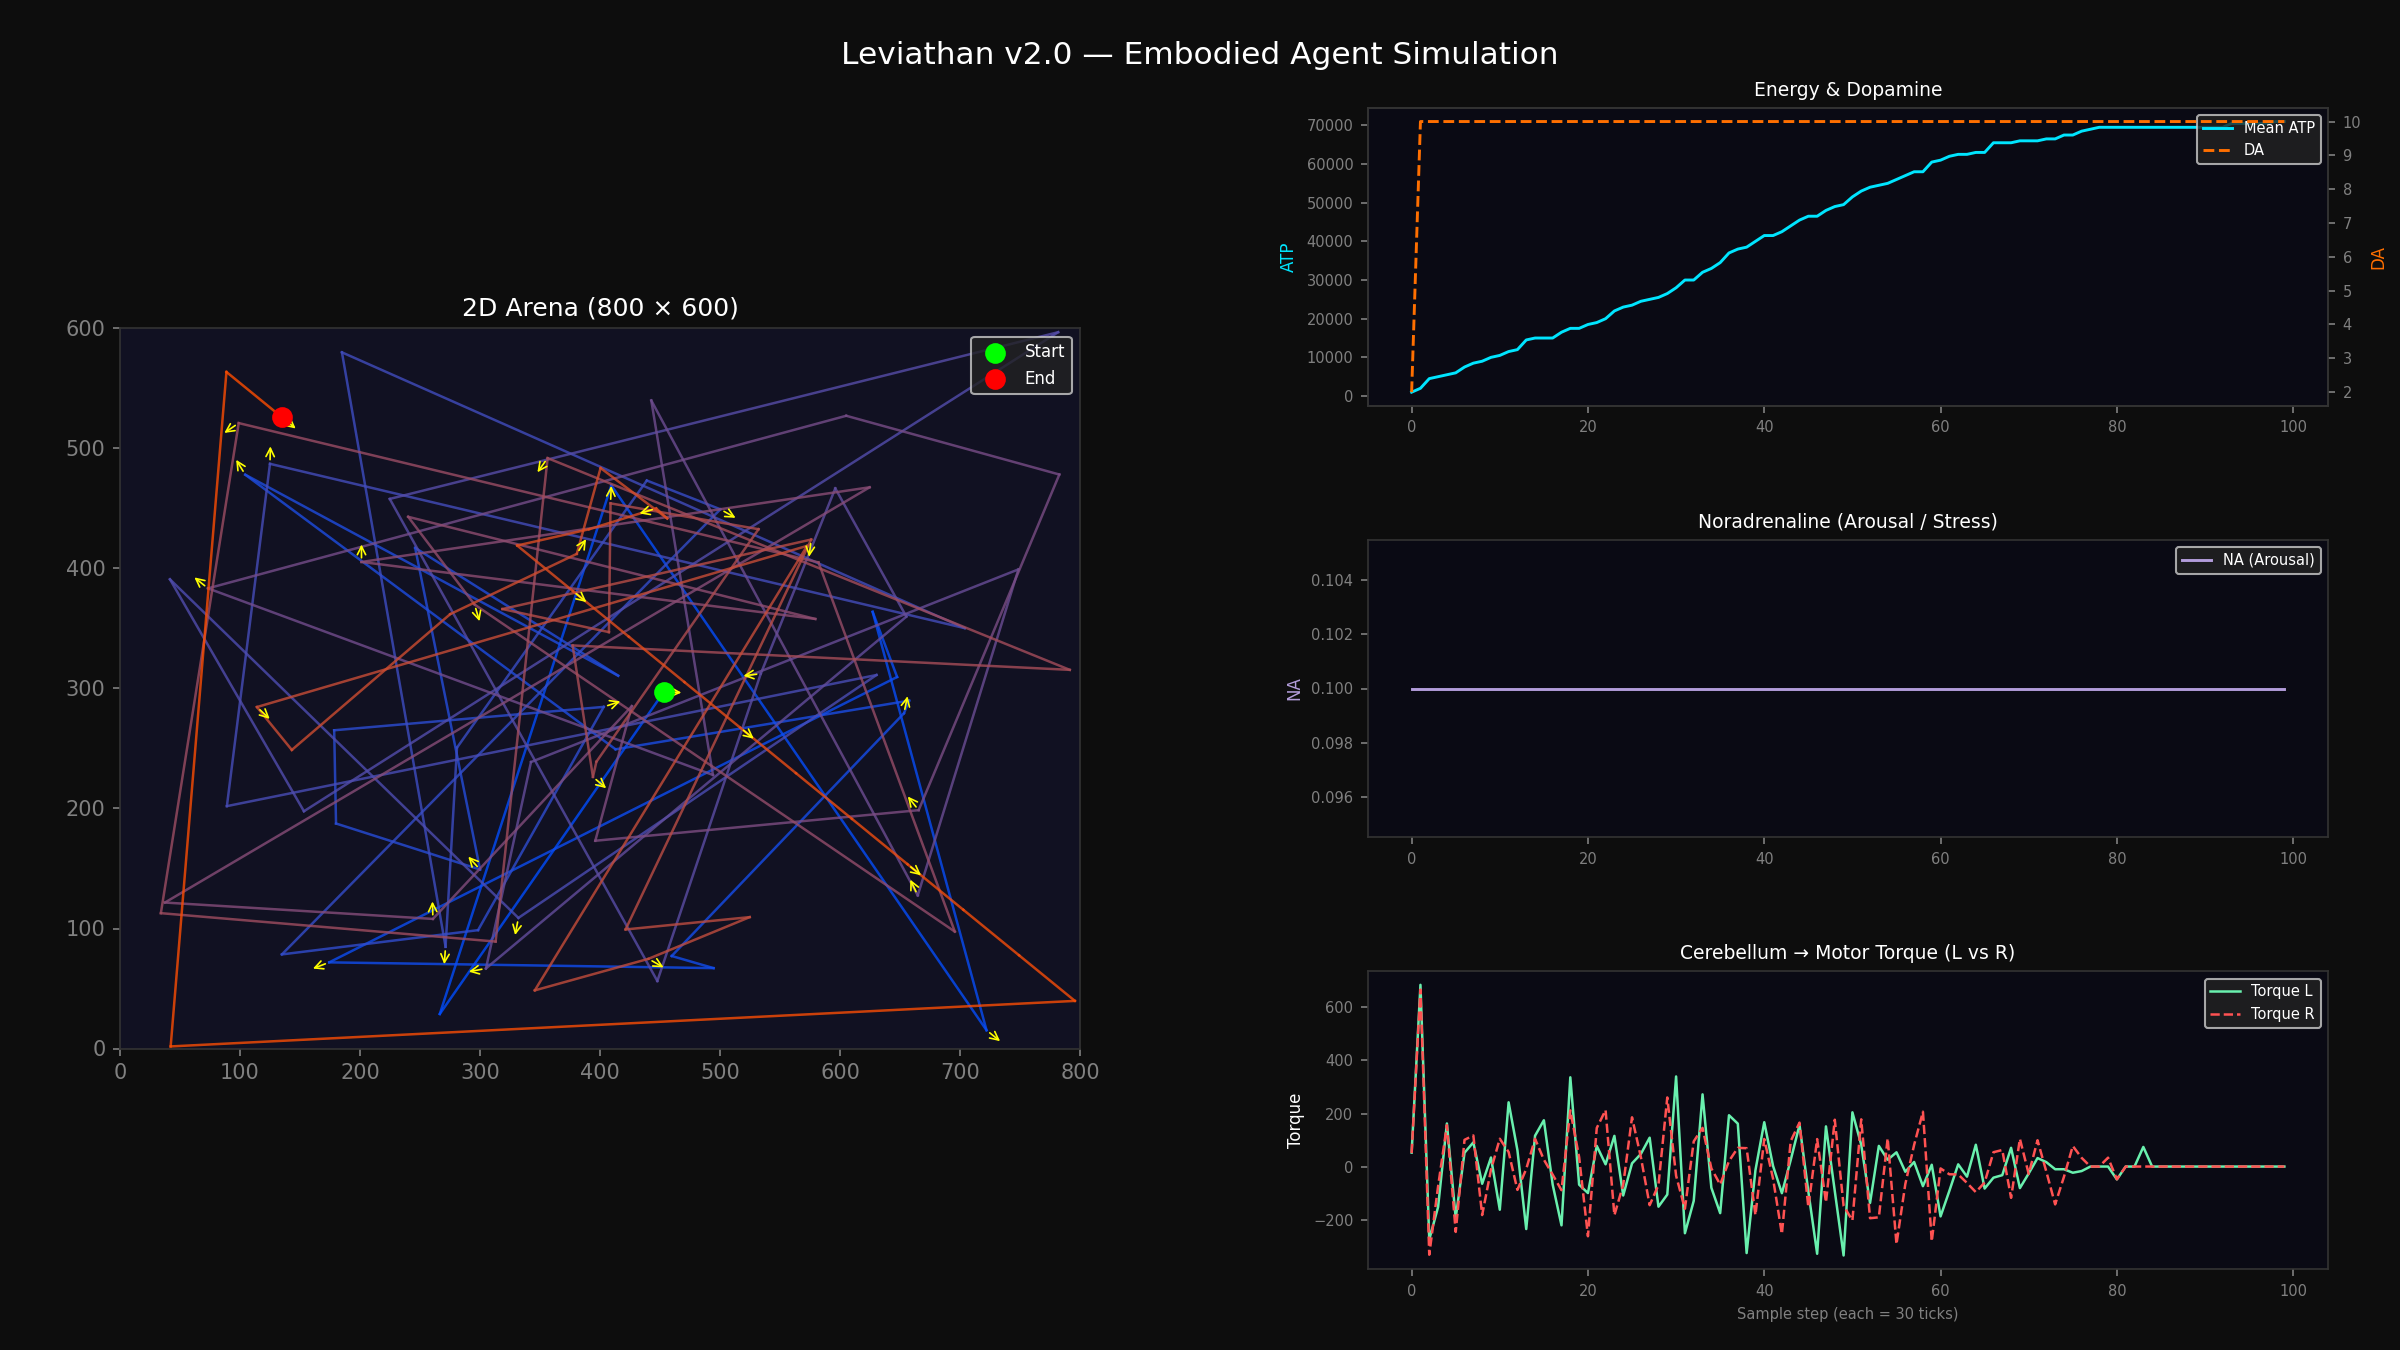
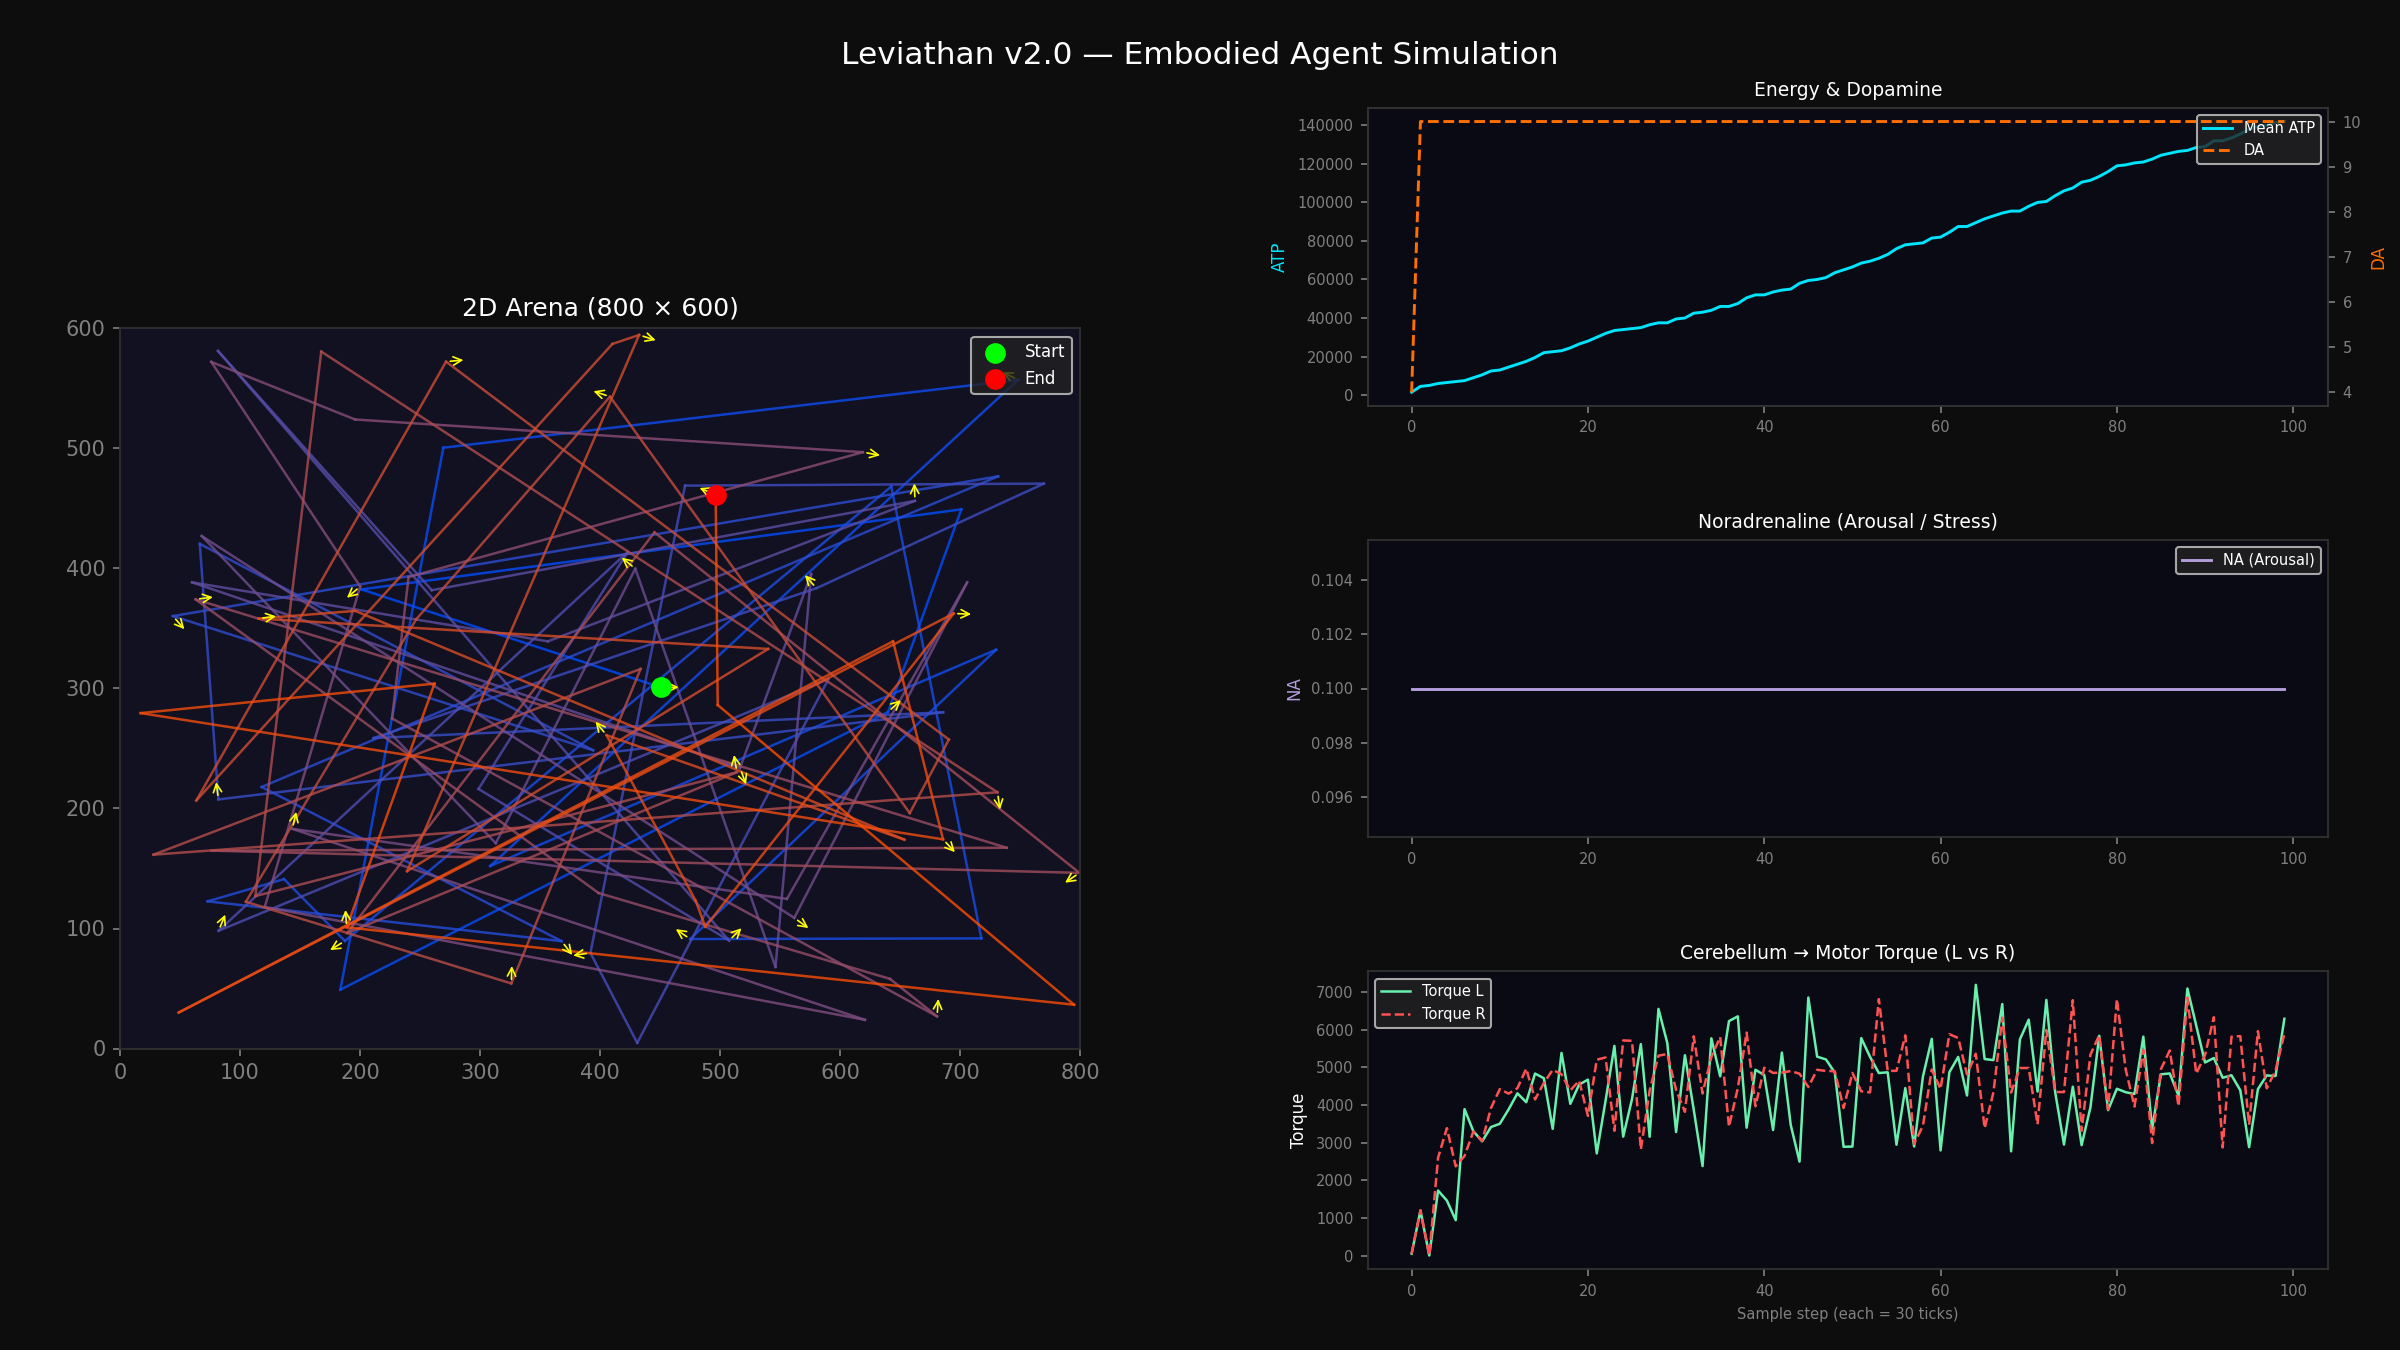
Phase 10: Debug fixes for Python 3.9 and macOS
- foraging_task.py: replaced int|None with Optional[int] (Python 3.9 compat)
- ptdp_ablation.py: fixed stale 4-arg apply_ptdp() call
- multi_gpu_orchestrator.py: robust NCCL/dist detection to avoid macOS background crashes
- verified all 9 major entry points are green

diff --git a/src/python/multi_gpu_orchestrator.py b/src/python/multi_gpu_orchestrator.py
@@ -12,22 +12,24 @@ Strategy:
   - Stream overlap: compute internal blocks while comm exchanges halo
 """
 
-# NOTE: Full deterministic multi-GPU execution requires:
-#   1. Identical CSR partitioning
-#   2. NCCL for AllGather of halo phases
-#   3. Stream synchronization between compute and comm streams
-
+import os
 import torch
 import torch.multiprocessing as mp
 
-
-NCCL_AVAILABLE = False
+DIST_AVAILABLE = False
 try:
     import torch.distributed as dist
 
-    NCCL_AVAILABLE = True
+    DIST_AVAILABLE = dist.is_available()
 except ImportError:
     pass
+
+# NCCL is typically only available on Linux with CUDA
+NCCL_AVAILABLE = (
+    DIST_AVAILABLE
+    and torch.cuda.is_available()
+    and getattr(dist, "is_nccl_available", lambda: False)()
+)
 
 
 def _partition_csr(
@@ -79,9 +81,23 @@ def _worker(rank: int, world_size: int, shared_data: dict, result_queue):
       3. AllGather halo phases via NCCL after each tick
       4. Update halo buffer and continue
     """
-    if NCCL_AVAILABLE:
-        dist.init_process_group("nccl", rank=rank, world_size=world_size)
-        device = torch.device(f"cuda:{rank}")
+    if world_size > 1 and DIST_AVAILABLE:
+        # Default env for local rendezvous if not set
+        if "MASTER_ADDR" not in os.environ:
+            os.environ["MASTER_ADDR"] = "127.0.0.1"
+        if "MASTER_PORT" not in os.environ:
+            os.environ["MASTER_PORT"] = "29500"
+
+        backend = "nccl" if NCCL_AVAILABLE else "gloo"
+        try:
+            dist.init_process_group(backend, rank=rank, world_size=world_size)
+            if NCCL_AVAILABLE:
+                device = torch.device(f"cuda:{rank}")
+            else:
+                device = torch.device("cpu")
+        except Exception as e:
+            print(f"[multi_gpu] Rank {rank} failed to init {backend}: {e}")
+            device = torch.device("cpu")
     else:
         device = torch.device("cpu")
 
@@ -105,14 +121,14 @@ def _worker(rank: int, world_size: int, shared_data: dict, result_queue):
         phase = phase + 0.01 * torch.randn_like(phase)
 
         # ── HALO EXCHANGE via AllGather ─────────────────────────────────
-        if NCCL_AVAILABLE:
+        if world_size > 1 and DIST_AVAILABLE and dist.is_initialized():
             all_phases = [torch.zeros_like(phase) for _ in range(world_size)]
             dist.all_gather(all_phases, phase)
             # Update halo buffer from all_phases here
 
     result_queue.put({"rank": rank, "final_phase_mean": float(phase.mean())})
 
-    if NCCL_AVAILABLE:
+    if DIST_AVAILABLE and dist.is_initialized():
         dist.destroy_process_group()
 
 

diff --git a/src/python/environment/foraging_task.py b/src/python/environment/foraging_task.py
@@ -7,6 +7,7 @@ Separates task definition from network implementation.
 
 import torch
 import numpy as np
+from typing import Optional
 
 
 class ForagingTask:
@@ -17,7 +18,7 @@ class ForagingTask:
     """
 
     def __init__(
-        self, arena_size: float = 10.0, n_food: int = 20, seed: int | None = None
+        self, arena_size: float = 10.0, n_food: int = 20, seed: Optional[int] = None
     ):
         self.arena_size = arena_size
         self.n_food = n_food

diff --git a/src/python/experiments/ptdp_ablation.py b/src/python/experiments/ptdp_ablation.py
@@ -59,7 +59,7 @@ def run_agent(ptdp_enabled: bool, seed: int):
         if ptdp_enabled:
             from leviathan.plasticity import apply_ptdp
 
-            apply_ptdp(brain.weights, brain.phi, delayed, brain.DA)
+            apply_ptdp(brain, delayed)
 
         update_metabolism(brain)
         update_neuromodulators(brain)
